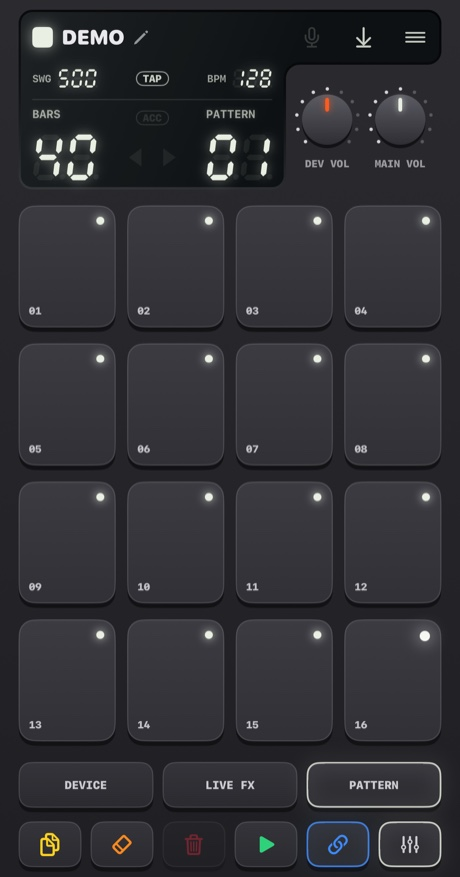
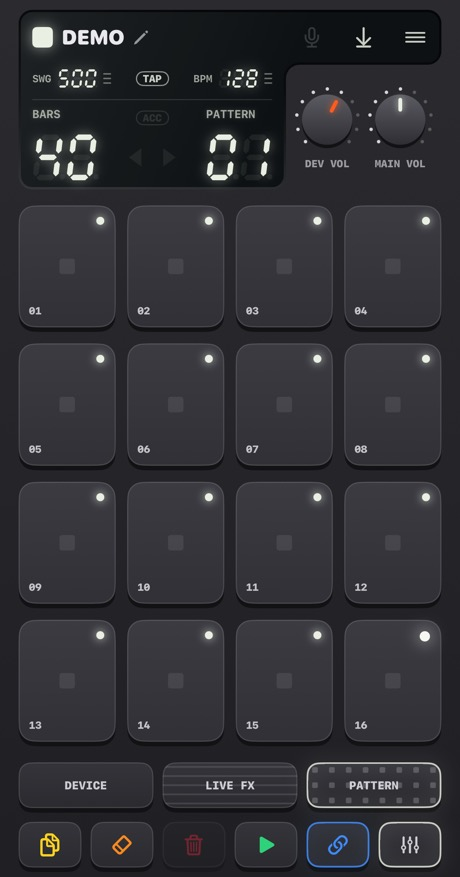
Describe the tour, page textures, device signs and Visual hints in the guide
Updates the guide in all eleven languages, retakes the four mixer
screenshots and adds the 1.1.0 entry to the changelog.

diff --git a/guide/ko.md b/guide/ko.md
@@ -34,6 +34,8 @@ Handbeat는 iPhone과 iPad를 위한 그루브박스예요. 패드 16개, 다양
 
 패드, 키, 노브는 모두 휴대폰의 작은 진동으로 반응해요(설정의 *진동*에서 끌 수 있어요). 음악을 많이 바꾸는 컨트롤일수록 진동도 세져요.
 
+페이지마다 패드와 그 페이지를 여는 키에 은은한 **질감**이 있어서 지금 어디에 있는지 한눈에 알 수 있어요. LIVE FX는 선, SOUND는 점, STEP은 세로 줄, PATTERN은 사각형이에요. DEVICE 페이지에는 질감이 없고, 대신 패드마다 기기를 나타내는 작은 표시가 있어요. 이 모든 것은 설정의 *시각 힌트*에서 끌 수 있어요.
+
 <details>
 <summary>더 알고 싶다면?</summary>
 
@@ -147,7 +149,8 @@ Handbeat는 iPhone과 iPad를 위한 그루브박스예요. 패드 16개, 다양
 
 **DEVICE** 페이지에서는 패드 하나가 슬롯 하나예요. 프로젝트에 최대 **16개 기기**를 넣을 수 있어요.
 
-- **빈 패드를 탭**하면 기기를 추가해요(패드가 고를 수 있는 종류로 바뀌어요).
+- **플러스가 있는 패드를 탭**하면 기기를 추가해요(패드가 고를 수 있는 종류로 바뀌고, 종류마다 표시가 있어요).
+- **표시.** 패드마다 기기를 나타내는 작은 표시가 있어요. 드럼 헤드(Drums), 파형(Sampler), 느린 파도(Bass), 톱니파(Acid), 마이크(Vocal), 잦아드는 현(Pluck), 커지는 엔벨로프(Pad), 사각파(Chip)예요.
 - **사용 중인 패드를 탭**하면 선택돼요. 연주하는 동안 링이 켜져요. **RACK**을 누르면 그 기기의 전용 화면으로 넘어가요.
 - **SOLO / MUTE**는 선택한 기기에 적용돼요. <img src="../images/keys/trash.jpg" width="32" alt="TRASH" align="absmiddle"> **TRASH**는 기기를 삭제해요. 누르고, 기기의 패드를 탭하고, 확인하세요.
 - **DEV VOL**은 선택한 기기의 레벨, **MAIN VOL**은 믹스 전체의 볼륨이에요. 5가 중립 가운데예요.
@@ -246,7 +249,7 @@ Handbeat는 사운드 앞뒤의 무음을 잘라 줘요. 무음 녹음은 저장
 
 ## 설정
 
-프로젝트 → 톱니바퀴. **언어**는 메뉴를 바로 바꿔 줘요(그루브박스 자체는 키, 노브, 기기 이름까지 하드웨어의 라벨처럼 어느 언어에서나 영어로 남아요). **테마**는 네 가지이고, 각각 다크, 라이트, *시스템*이 있어요. **Classic**, **iClassic**(반짝이는 플라스틱과 클릭 휠), **Contrast**(평면적이고 순수한 검정 또는 흰색), **Aero**(젤과 유리)예요. 테마마다 전용 **앱 아이콘**도 있어요.
+프로젝트 → 톱니바퀴. **언어**는 메뉴를 바로 바꿔 줘요(그루브박스 자체는 키, 노브, 기기 이름까지 하드웨어의 라벨처럼 어느 언어에서나 영어로 남아요). **테마**는 네 가지이고, 각각 다크, 라이트, *시스템*이 있어요. **Classic**, **iClassic**(반짝이는 플라스틱과 클릭 휠), **Contrast**(평면적이고 순수한 검정 또는 흰색), **Aero**(젤과 유리)예요. 테마마다 전용 **앱 아이콘**도 있어요. **진동**과 **시각 힌트**는 탭 진동과 페이지의 질감과 표시를 켜고 꺼요. **소개**는 새 데모 프로젝트에서 가이드 투어를 다시 해요. Handbeat를 처음 열면 데모에서 투어가 저절로 시작되고, 모서리의 ×로 닫을 수 있어요.
 
 ---
 

diff --git a/guide/de.md b/guide/de.md
@@ -34,6 +34,8 @@ Oben auf dem Bildschirm sitzt das **Display**. Alles darauf darfst du anfassen.
 
 Jedes Pad, jede Taste und jeder Regler antwortet mit einem winzigen Tipser deines Handys (in den Einstellungen unter *Vibration* abschaltbar). Je mehr ein Bedienelement die Musik verändert, desto kräftiger der Tipser.
 
+Jede Seite hat eine dezente **Textur** auf ihren Pads und auf der Taste, die sie öffnet, damit du auf einen Blick siehst, wo du bist: Linien für LIVE FX, Punkte für SOUND, Spalten für STEP und Quadrate für PATTERN. Die Seite DEVICE hat keine, ihre Pads tragen stattdessen ein kleines Zeichen für jedes Gerät. Schalte das alles in den Einstellungen unter *Visuelle Hinweise* aus.
+
 <details>
 <summary>Mehr wissen?</summary>
 
@@ -147,7 +149,8 @@ Die letzte Taste schaltet zwischen deinem Gerät und dem **Mixer** um, demselben
 
 Auf der Seite **DEVICE** ist jedes Pad ein Platz: bis zu **16 Geräte** pro Projekt.
 
-- **Tippe auf ein leeres Pad**, um ein Gerät hinzuzufügen (die Pads verwandeln sich in die Arten, die du wählen kannst).
+- **Tippe auf ein Pad mit einem Plus**, um ein Gerät hinzuzufügen (die Pads verwandeln sich in die Arten, die du wählen kannst, jede mit ihrem Zeichen).
+- **Zeichen.** Jedes Pad trägt ein kleines Zeichen seines Geräts: ein Trommelfell (Drums), eine Wellenform (Sampler), eine langsame Welle (Bass), eine Säge (Acid), ein Mikrofon (Vocal), eine verklingende Saite (Pluck), eine anschwellende Hüllkurve (Pad) oder eine Rechteckwelle (Chip).
 - **Tippe auf ein belegtes Pad**, um es auszuwählen. Sein Ring leuchtet, solange es spielt. **RACK** springt in seinen eigenen Bildschirm.
 - **SOLO / MUTE** wirken auf das gewählte Gerät. <img src="../images/keys/trash.jpg" width="32" alt="TRASH" align="absmiddle"> **TRASH** löscht eines: drücken, auf das Pad des Geräts tippen, bestätigen.
 - **DEV VOL** ist der Pegel des gewählten Geräts, **MAIN VOL** die Lautstärke des gesamten Mixes. 5 ist die neutrale Mitte.
@@ -246,7 +249,7 @@ Die **Menü**-Taste öffnet die **Projekte** (sie stoppt die Musik und speichert
 
 ## Einstellungen
 
-Projekte → das Zahnrad. **Sprache** schaltet die Menüs sofort um (die Groovebox selbst mit ihren Tasten, Reglern und Gerätenamen bleibt überall auf Englisch, wie die Beschriftungen auf einem Hardwaregerät). Es gibt vier **Designs**, jedes in Dunkel, Hell oder *System*: **Classic**, **iClassic** (glänzender Kunststoff und ein Click Wheel), **Contrast** (flach, reines Schwarz oder Weiß) und **Aero** (Gel und Glas). Jedes Design hat außerdem sein eigenes **App-Symbol**.
+Projekte → das Zahnrad. **Sprache** schaltet die Menüs sofort um (die Groovebox selbst mit ihren Tasten, Reglern und Gerätenamen bleibt überall auf Englisch, wie die Beschriftungen auf einem Hardwaregerät). Es gibt vier **Designs**, jedes in Dunkel, Hell oder *System*: **Classic**, **iClassic** (glänzender Kunststoff und ein Click Wheel), **Contrast** (flach, reines Schwarz oder Weiß) und **Aero** (Gel und Glas). Jedes Design hat außerdem sein eigenes **App-Symbol**. **Vibration** und **Visuelle Hinweise** schalten die Taps sowie die Texturen und Zeichen der Seiten ein oder aus. **Einführung** startet die geführte Tour noch einmal in einem neuen Demoprojekt. Beim ersten Öffnen von Handbeat beginnt die Tour von selbst in einer Demo, und das Kreuz in ihrer Ecke beendet sie.
 
 ---
 

diff --git a/guide/fr.md b/guide/fr.md
@@ -34,6 +34,8 @@ Le haut de l’écran, c’est l’**afficheur**. Tout ce qu’il montre se touc
 
 Chaque pad, touche et bouton répond par un petit tapotement du téléphone (tu peux le couper dans les Réglages, sous *Vibration*). Plus une commande change la musique, plus le tapotement est fort.
 
+Chaque page a une **texture** discrète sur ses pads et sur la touche qui l’ouvre, pour que tu voies d’un coup d’œil où tu es : des lignes pour LIVE FX, des points pour SOUND, des colonnes pour STEP et des carrés pour PATTERN. La page DEVICE n’en a pas, ses pads portent à la place un petit signe de chaque appareil. Désactive tout cela dans les Réglages, sous *Repères visuels*.
+
 <details>
 <summary>Envie d’en savoir plus ?</summary>
 
@@ -147,7 +149,8 @@ La dernière touche bascule entre ton appareil et le **mixeur**, le même platea
 
 Sur la page **DEVICE**, chaque pad est un emplacement : jusqu’à **16 appareils** par projet.
 
-- **Touche un pad vide** pour ajouter un appareil (les pads deviennent les types que tu peux choisir).
+- **Touche un pad avec un plus** pour ajouter un appareil (les pads deviennent les types que tu peux choisir, chacun avec son signe).
+- **Signes.** Chaque pad porte un petit signe de son appareil : une peau de tambour (Drums), une forme d’onde (Sampler), une onde lente (Bass), une dent de scie (Acid), un micro (Vocal), une corde qui s’éteint (Pluck), une enveloppe qui gonfle (Pad) ou une onde carrée (Chip).
 - **Touche un pad occupé** pour le sélectionner. Son anneau s’allume pendant qu’il joue. **RACK** saute vers son propre écran.
 - **SOLO / MUTE** agissent sur l’appareil sélectionné. <img src="../images/keys/trash.jpg" width="32" alt="TRASH" align="absmiddle"> **TRASH** en supprime un : appuie dessus, touche le pad de l’appareil, confirme.
 - **DEV VOL** est le niveau de l’appareil sélectionné, **MAIN VOL** le volume de tout le mix. 5 est le milieu neutre.
@@ -246,7 +249,7 @@ Le bouton **menu** ouvre les **Projets** (il arrête la musique et enregistre).
 
 ## Réglages
 
-Projets → la roue dentée. **Langue** change les menus instantanément (la groovebox elle-même, avec ses touches, ses boutons et les noms d’appareils, reste en anglais partout, comme les étiquettes d’une machine matérielle). Il y a quatre **thèmes**, chacun en Sombre, Clair ou *Système* : **Classic**, **iClassic** (plastique brillant et une molette), **Contrast** (à plat, noir ou blanc pur) et **Aero** (gel et verre). Chaque thème a aussi sa propre **icône de l’app**.
+Projets → la roue dentée. **Langue** change les menus instantanément (la groovebox elle-même, avec ses touches, ses boutons et les noms d’appareils, reste en anglais partout, comme les étiquettes d’une machine matérielle). Il y a quatre **thèmes**, chacun en Sombre, Clair ou *Système* : **Classic**, **iClassic** (plastique brillant et une molette), **Contrast** (à plat, noir ou blanc pur) et **Aero** (gel et verre). Chaque thème a aussi sa propre **icône de l’app**. **Vibration** et **Repères visuels** activent ou coupent les tapotements ainsi que les textures et signes des pages. **Présentation** refait la visite guidée sur un nouveau projet de démo. La première fois que tu ouvres Handbeat, la visite démarre toute seule sur une démo, et la croix dans son coin la ferme.
 
 ---
 

diff --git a/guide/es.md b/guide/es.md
@@ -34,6 +34,8 @@ La parte de arriba de la pantalla es el **display**. Todo lo que hay en él se t
 
 Cada pad, tecla y perilla responde con una pequeña vibración del móvil (puedes desactivarla en Ajustes, en *Vibración*). Cuanto más cambia la música un control, más fuerte es el toque.
 
+Cada página tiene una **textura** tenue en sus pads y en la tecla que la abre, para que sepas dónde estás de un vistazo: líneas para LIVE FX, puntos para SOUND, columnas para STEP y cuadrados para PATTERN. La página DEVICE no tiene ninguna, sus pads llevan en cambio un pequeño signo de cada dispositivo. Desactiva todo esto en Ajustes, en *Pistas visuales*.
+
 <details>
 <summary>¿Quieres saber más?</summary>
 
@@ -147,7 +149,8 @@ La última tecla alterna entre tu dispositivo y el **mezclador**, el mismo table
 
 En la página **DEVICE** cada pad es un hueco: hasta **16 dispositivos** por proyecto.
 
-- **Toca un pad vacío** para añadir un dispositivo (los pads se convierten en los tipos que puedes elegir).
+- **Toca un pad con un plus** para añadir un dispositivo (los pads se convierten en los tipos que puedes elegir, cada uno con su signo).
+- **Signos.** Cada pad lleva un pequeño signo de su dispositivo: un parche de tambor (Drums), una forma de onda (Sampler), una onda lenta (Bass), una sierra (Acid), un micrófono (Vocal), una cuerda que se apaga (Pluck), una envolvente que crece (Pad) o una onda cuadrada (Chip).
 - **Toca un pad ocupado** para seleccionarlo. Su anillo se enciende mientras suena. **RACK** salta a su pantalla.
 - **SOLO / MUTE** actúan sobre el dispositivo seleccionado. <img src="../images/keys/trash.jpg" width="32" alt="TRASH" align="absmiddle"> **TRASH** borra uno: púlsalo, toca el pad del dispositivo y confirma.
 - **DEV VOL** es el nivel del dispositivo seleccionado y **MAIN VOL** el volumen de toda la mezcla. 5 es el punto neutro.
@@ -246,7 +249,7 @@ El botón de **menú** abre **Proyectos** (para la música y guarda).
 
 ## Ajustes
 
-Proyectos → el engranaje. **Idioma** cambia los menús al instante (la groovebox en sí, con sus teclas, perillas y nombres de dispositivo, se queda en inglés en todos los idiomas, como las etiquetas de un aparato de hardware). Hay cuatro **temas**, cada uno en Oscuro, Claro o *Sistema*: **Classic**, **iClassic** (plástico brillante y una rueda táctil), **Contrast** (plano, negro o blanco puro) y **Aero** (gel y cristal). Cada tema tiene además su propio **icono de la app**.
+Proyectos → el engranaje. **Idioma** cambia los menús al instante (la groovebox en sí, con sus teclas, perillas y nombres de dispositivo, se queda en inglés en todos los idiomas, como las etiquetas de un aparato de hardware). Hay cuatro **temas**, cada uno en Oscuro, Claro o *Sistema*: **Classic**, **iClassic** (plástico brillante y una rueda táctil), **Contrast** (plano, negro o blanco puro) y **Aero** (gel y cristal). Cada tema tiene además su propio **icono de la app**. **Vibración** y **Pistas visuales** activan o desactivan los toques y las texturas y signos de las páginas. **Introducción** repite el tutorial guiado en un proyecto de demostración nuevo. La primera vez que abres Handbeat, el tutorial empieza solo en una demo, y la cruz de su esquina lo cierra.
 
 ---
 

diff --git a/guide/it.md b/guide/it.md
@@ -34,6 +34,8 @@ La parte alta dello schermo è il **display**. Tutto quello che c’è sopra si 
 
 Ogni pad, tasto e manopola risponde con un minuscolo colpetto del telefono (puoi spegnerlo nelle Impostazioni, sotto *Vibrazione*). Più un controllo cambia la musica, più forte è il colpetto.
 
+Ogni pagina ha una **texture** tenue sui suoi pad e sul tasto che la apre, così capisci a colpo d’occhio dove sei: linee per LIVE FX, punti per SOUND, colonne per STEP e quadrati per PATTERN. La pagina DEVICE non ne ha, i suoi pad portano invece un piccolo segno di ogni dispositivo. Disattiva tutto questo nelle Impostazioni, in *Suggerimenti visivi*.
+
 <details>
 <summary>Vuoi saperne di più?</summary>
 
@@ -147,7 +149,8 @@ L’ultimo tasto passa dal tuo dispositivo al **mixer**, la stessa tavola 4×4 c
 
 Nella pagina **DEVICE** ogni pad è uno slot: fino a **16 dispositivi** in un progetto.
 
-- **Tocca un pad vuoto** per aggiungere un dispositivo (i pad diventano i tipi che puoi scegliere).
+- **Tocca un pad con un più** per aggiungere un dispositivo (i pad diventano i tipi che puoi scegliere, ognuno con il suo segno).
+- **Segni.** Ogni pad porta un piccolo segno del suo dispositivo: una pelle di tamburo (Drums), una forma d’onda (Sampler), un’onda lenta (Bass), un dente di sega (Acid), un microfono (Vocal), una corda che si spegne (Pluck), un inviluppo che cresce (Pad) o un’onda quadra (Chip).
 - **Tocca un pad occupato** per selezionarlo. Il suo anello si accende mentre suona. **RACK** salta alla sua schermata.
 - **SOLO / MUTE** agiscono sul dispositivo selezionato. <img src="../images/keys/trash.jpg" width="32" alt="TRASH" align="absmiddle"> **TRASH** ne elimina uno: premilo, tocca il pad del dispositivo, conferma.
 - **DEV VOL** è il livello del dispositivo selezionato, **MAIN VOL** il volume dell’intero mix. 5 è il centro neutro.
@@ -246,7 +249,7 @@ Il pulsante **menu** apre i **Progetti** (ferma la musica e salva).
 
 ## Impostazioni
 
-Progetti → l’ingranaggio. **Lingua** cambia i menu subito (la groovebox stessa, con i suoi tasti, le manopole e i nomi dei dispositivi, resta in inglese in tutte le lingue, come le etichette di un apparecchio hardware). Ci sono quattro **temi**, ognuno in Scuro, Chiaro o *Sistema*: **Classic**, **iClassic** (plastica lucida e una ruota click), **Contrast** (piatto, nero o bianco puro) e **Aero** (gel e vetro). Ogni tema ha anche la sua **icona dell’app**.
+Progetti → l’ingranaggio. **Lingua** cambia i menu subito (la groovebox stessa, con i suoi tasti, le manopole e i nomi dei dispositivi, resta in inglese in tutte le lingue, come le etichette di un apparecchio hardware). Ci sono quattro **temi**, ognuno in Scuro, Chiaro o *Sistema*: **Classic**, **iClassic** (plastica lucida e una ruota click), **Contrast** (piatto, nero o bianco puro) e **Aero** (gel e vetro). Ogni tema ha anche la sua **icona dell’app**. **Vibrazione** e **Suggerimenti visivi** attivano o disattivano i tocchi e le texture e i segni delle pagine. **Introduzione** rifà il tour guidato su un nuovo progetto demo. La prima volta che apri Handbeat il tour parte da solo su una demo, e la croce nell’angolo lo chiude.
 
 ---
 

diff --git a/guide/pt.md b/guide/pt.md
@@ -34,6 +34,8 @@ A parte de cima da tela é o **display**. Tudo o que está nele é para tocar.
 
 Cada pad, tecla e knob responde com uma batidinha do celular (dá para desligar nos Ajustes, em *Vibração*). Quanto mais um controle muda a música, mais forte é a batidinha.
 
+Cada página tem uma **textura** discreta nos pads e na tecla que a abre, para você saber onde está num relance: linhas para LIVE FX, pontos para SOUND, colunas para STEP e quadrados para PATTERN. A página DEVICE não tem nenhuma, os pads dela trazem um pequeno sinal de cada dispositivo. Desligue tudo isso em Ajustes, em *Dicas visuais*.
+
 <details>
 <summary>Quer saber mais?</summary>
 
@@ -147,7 +149,8 @@ A última tecla alterna entre o seu dispositivo e o **mixer**, o mesmo tabuleiro
 
 Na página **DEVICE**, cada pad é um espaço: até **16 dispositivos** por projeto.
 
-- **Toque num pad vazio** para adicionar um dispositivo (os pads viram os tipos que você pode escolher).
+- **Toque num pad com um plus** para adicionar um dispositivo (os pads viram os tipos que você pode escolher, cada um com seu sinal).
+- **Sinais.** Cada pad traz um pequeno sinal do seu dispositivo: uma pele de tambor (Drums), uma forma de onda (Sampler), uma onda lenta (Bass), um dente de serra (Acid), um microfone (Vocal), uma corda que se apaga (Pluck), um envelope que cresce (Pad) ou uma onda quadrada (Chip).
 - **Toque num pad ocupado** para selecioná-lo. O anel dele acende enquanto toca. **RACK** pula para a tela dele.
 - **SOLO / MUTE** valem para o dispositivo selecionado. <img src="../images/keys/trash.jpg" width="32" alt="TRASH" align="absmiddle"> **TRASH** apaga um: aperte, toque no pad do dispositivo e confirme.
 - **DEV VOL** é o nível do dispositivo selecionado, **MAIN VOL** o volume da mixagem inteira. 5 é o meio neutro.
@@ -246,7 +249,7 @@ O botão de **menu** abre os **Projetos** (ele para a música e salva).
 
 ## Ajustes
 
-Projetos → a engrenagem. **Idioma** troca os menus na hora (a groovebox em si, com suas teclas, knobs e nomes de dispositivos, fica em inglês em todos os idiomas, como os rótulos de um aparelho de hardware). Há quatro **temas**, cada um em Escuro, Claro ou *Sistema*: **Classic**, **iClassic** (plástico brilhante e uma roda de clique), **Contrast** (chapado, preto ou branco puro) e **Aero** (gel e vidro). Cada tema também tem o seu próprio **ícone do app**.
+Projetos → a engrenagem. **Idioma** troca os menus na hora (a groovebox em si, com suas teclas, knobs e nomes de dispositivos, fica em inglês em todos os idiomas, como os rótulos de um aparelho de hardware). Há quatro **temas**, cada um em Escuro, Claro ou *Sistema*: **Classic**, **iClassic** (plástico brilhante e uma roda de clique), **Contrast** (chapado, preto ou branco puro) e **Aero** (gel e vidro). Cada tema também tem o seu próprio **ícone do app**. **Vibração** e **Dicas visuais** ligam ou desligam os toques e as texturas e sinais das páginas. **Introdução** refaz o tour guiado num novo projeto de demonstração. Na primeira vez que você abre o Handbeat, o tour começa sozinho numa demo, e o X no canto dele o encerra.
 
 ---
 

diff --git a/guide/sr.md b/guide/sr.md
@@ -34,6 +34,8 @@ Gornji deo ekrana je **displej**. Sve na njemu možeš da dodirneš.
 
 Svaki pad, taster i regulator odgovara sitnim podrhtavanjem telefona (isključuje se u Podešavanjima, pod *Vibracija*). Što više neka kontrola menja muziku, to je podrhtavanje jače.
 
+Svaka stranica ima blagu **teksturu** na padovima i na tasteru koji je otvara, da jednim pogledom vidiš gde si: linije za LIVE FX, tačke za SOUND, kolone za STEP i kvadrate za PATTERN. Stranica DEVICE je nema, umesto nje padovi nose mali znak svakog uređaja. Sve ovo isključuješ u podešavanjima, u *Vizuelne pomoći*.
+
 <details>
 <summary>Želiš da znaš više?</summary>
 
@@ -147,7 +149,8 @@ Poslednji taster prebacuje između tvog uređaja i **miksera**, iste table 4×4 
 
 Na stranici **DEVICE** svaki pad je jedno mesto: do **16 uređaja** u projektu.
 
-- **Dodirni prazan pad** da dodaš uređaj (padovi postaju vrste koje možeš da izabereš).
+- **Dodirni pad sa plusom** da dodaš uređaj (padovi postaju vrste koje možeš da izabereš, svaka sa svojim znakom).
+- **Znaci.** Svaki pad nosi mali znak svog uređaja: opnu bubnja (Drums), oblik talasa (Sampler), spor talas (Bass), testeru (Acid), mikrofon (Vocal), strunu koja jenjava (Pluck), obvojnicu koja raste (Pad) ili pravougaoni talas (Chip).
 - **Dodirni zauzet pad** da ga izabereš. Njegov prsten svetli dok svira. **RACK** skače na njegov sopstveni ekran.
 - **SOLO / MUTE** deluju na izabrani uređaj. <img src="../images/keys/trash.jpg" width="32" alt="TRASH" align="absmiddle"> **TRASH** briše uređaj: pritisni ga, dodirni pad uređaja, potvrdi.
 - **DEV VOL** je nivo izabranog uređaja, **MAIN VOL** jačina celog miksa. 5 je neutralna sredina.
@@ -246,7 +249,7 @@ Dugme **menija** otvara **Projekte** (zaustavlja muziku i čuva).
 
 ## Podešavanja
 
-Projekti → zupčanik. **Jezik** menja menije odmah (sam groovebox, sa tasterima, regulatorima i imenima uređaja, ostaje na engleskom svuda, kao natpisi na hardverskom aparatu). Postoje četiri **teme**, svaka u varijanti Tamna, Svetla ili *Sistemska*: **Classic**, **iClassic** (sjajna plastika i klik točkić), **Contrast** (ravna, čisto crna ili bela) i **Aero** (gel i staklo). Svaka tema ima i sopstvenu **ikonicu aplikacije**.
+Projekti → zupčanik. **Jezik** menja menije odmah (sam groovebox, sa tasterima, regulatorima i imenima uređaja, ostaje na engleskom svuda, kao natpisi na hardverskom aparatu). Postoje četiri **teme**, svaka u varijanti Tamna, Svetla ili *Sistemska*: **Classic**, **iClassic** (sjajna plastika i klik točkić), **Contrast** (ravna, čisto crna ili bela) i **Aero** (gel i staklo). Svaka tema ima i sopstvenu **ikonicu aplikacije**. **Vibracija** i **Vizuelne pomoći** uključuju i isključuju dodire, kao i teksture i znake stranica. **Uvod** ponovo vodi kroz obilazak na novom demo projektu. Kad prvi put otvoriš Handbeat, obilazak kreće sam na demou, a krstić u njegovom uglu ga zatvara.
 
 ---
 

diff --git a/guide/en.md b/guide/en.md
@@ -32,6 +32,8 @@ The top of the screen is the **display**. Everything on it is yours to touch.
 
 Every pad, key and knob answers with a tiny tap from your phone (switch it off in Settings under *Vibration*). The more a control changes the music, the harder the tap.
 
+Each page has a faint **texture** on its pads and on the key that opens it, so you can tell where you are at a glance: lines for LIVE FX, dots for SOUND, columns for STEP and squares for PATTERN. The DEVICE page has none, its pads carry a small sign of each device instead. Switch all of this off in Settings under *Visual hints*.
+
 <details>
 <summary>Want to know more?</summary>
 
@@ -143,7 +145,8 @@ The last key flips between your device and the **mixer**, the same 4×4 board in
 
 On the **DEVICE** page every pad is a slot: up to **16 devices** in a project.
 
-- **Tap an empty pad** to add a device (the pads turn into the kinds you can pick).
+- **Tap a pad with a plus** to add a device (the pads turn into the kinds you can pick, each with its sign).
+- **Signs.** Each pad wears a small sign of its device: a drum head (Drums), a waveform (Sampler), a slow wave (Bass), a saw (Acid), a microphone (Vocal), a fading string (Pluck), a swelling envelope (Pad) or a square wave (Chip).
 - **Tap a used pad** to select it. Its ring lights while it plays. **RACK** jumps into its own screen.
 - **SOLO / MUTE** work on the selected device. <img src="../images/keys/trash.jpg" width="32" alt="TRASH" align="absmiddle"> **TRASH** deletes one: press it, tap the device's pad, confirm.
 - **DEV VOL** is the level of the selected device, **MAIN VOL** the volume of the whole mix. 5 is the neutral middle.
@@ -240,7 +243,7 @@ The **menu** button opens **Projects** (it stops the music and saves).
 
 ## Settings
 
-Projects → the gear. **Language** switches the menus at once (the groove box itself, with its keys, knobs and device names, stays in English everywhere, like the labels on a hardware box). There are four **themes**, each in Dark, Light or *System*: **Classic**, **iClassic** (glossy plastic and a click wheel), **Contrast** (flat, pure black or white) and **Aero** (gel and glass). Each theme also has its own **app icon**.
+Projects → the gear. **Language** switches the menus at once (the groove box itself, with its keys, knobs and device names, stays in English everywhere, like the labels on a hardware box). There are four **themes**, each in Dark, Light or *System*: **Classic**, **iClassic** (glossy plastic and a click wheel), **Contrast** (flat, pure black or white) and **Aero** (gel and glass). Each theme also has its own **app icon**. **Vibration** and **Visual hints** switch the taps and the page textures and signs on or off. **Onboarding** takes the guided tour again on a new demo project. The first time you open Handbeat the tour starts by itself on a demo, and the cross in its corner leaves it.
 
 ---
 

diff --git a/CHANGELOG.md b/CHANGELOG.md
@@ -2,6 +2,15 @@
 
 What changed in each version of Handbeat. Newest first. Versions follow [Semantic Versioning](https://semver.org).
 
+## 1.1.0
+
+### New
+
+- A guided tour on a demo project: it lights one place at a time and has you set the tempo, add Drums, record a Pluck and chain patterns. Leave it with the cross, and take it again from Settings (Onboarding).
+- Every page has its own faint texture on its pads and on the key that opens it, so you can see where you are at a glance.
+- The DEVICE page shows a plus on a free slot and a small sign of the kind on each device, and the device picker shows the sign of every kind.
+- Settings has a Visual hints switch that turns the textures and signs on or off.
+
 ## 1.0.1
 
 ### Improved
